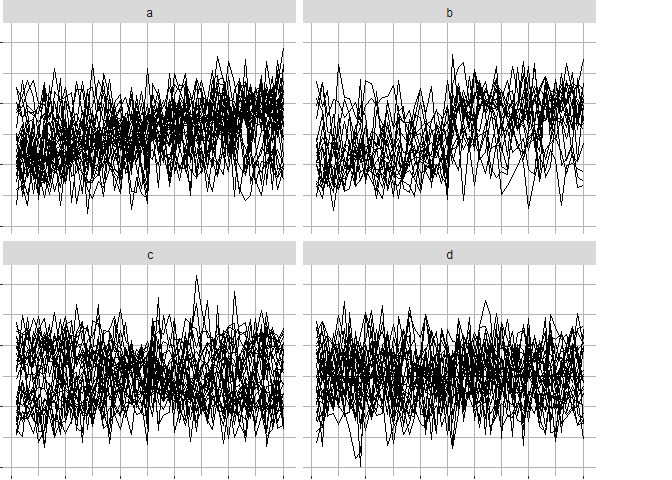
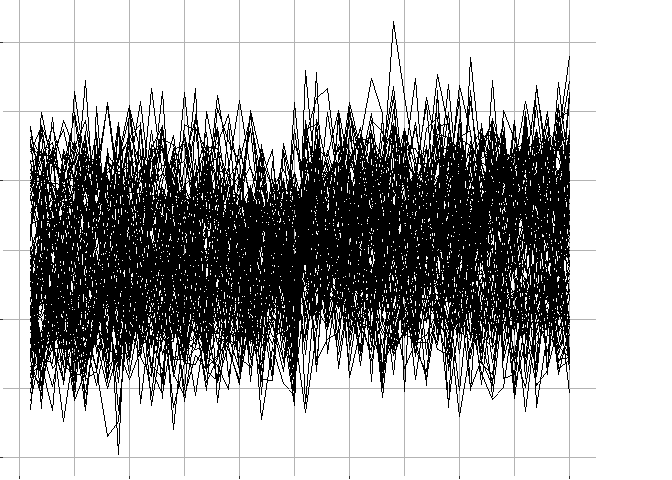
change readme new data

diff --git a/README.md b/README.md
@@ -34,72 +34,92 @@ pushed to CRAN.
 
 Consider the following set of time series
 
-    #> Warning: package 'ggplot2' was built under R version 4.3.1
-    #> Warning: package 'purrr' was built under R version 4.3.1
+``` r
+library(tidyverse)
+library(ppa)
+
+set.seed(140)
+
+#generate 4 different signals
+tsa <- 1:50
+tsb <- c(rep(1, 25), rep(50, 25))
+tsc <- c(seq(50 ,41, length.out=20), seq(40, 11, length.out=10), seq(10,1, length.out=20))
+tsd <- rep(25, 50)
+
+data <- tibble(seconds = rep(1:50, times=100),
+               haty=c(rep(tsa, times=25),
+                      rep(tsb, times=25),
+                      rep(tsc, times=25), rnorm(1250, 25, 15)),
+               series=c(rep(sample(1:100), each=50)),
+               identity=c(rep(c('a', 'b', 'c', 'd'), each=1250)),
+               noise=c(rnorm(5000, sd=15)),
+               y=haty+noise) %>% arrange(series)
+
+corrupt_one_series <- sample(1:100, 1)
+data <- data %>% mutate(y=ifelse(series==corrupt_one_series, haty, y))
+
+data %>% ggplot(aes(seconds, y))+geom_line(aes(group=series)) + facet_wrap(~identity) +
+     xlab(NULL) +
+     ylab(NULL) +
+     theme(axis.text.x = element_blank(), axis.title.y = element_blank(),
+           axis.text.y = element_blank(),
+           axis.title.x = element_blank(),
+           panel.border = element_blank(), panel.background = element_rect(fill="white"),
+           panel.grid = element_line(colour = "grey70"))
+```
 
 <img src="man/figures/README-oracle-1.png" width="30%" />
 
-In the previous figure, the signal is relatively clear. However,
-consider the following figures (these are the same time series from
-above, but in the first figure the labels are correlated with the
-variation across time series but noisy; in the second figure the labels
-are random and thus are not useful):
+In the previous figure, the signal is relatively clear. However, what if
+we did not have access to the grouping labels?
 
-<img src="man/figures/README-noisy-1.png" width="30%" /><img src="man/figures/README-noisy-2.png" width="30%" />
+<img src="man/figures/README-noisy-1.png" width="30%" />
 
-In the last two situations, analysis would be difficult. No additional
-variables are available that could help the analyst pull apart the time
-series in a useful way. These figure alone are insufficient for
-identifying the main signal present in the time series. Plot panel
-analysis can help with this!
+Analysis would be difficult. No additional variables are available that
+could help the analyst easily pull apart the time series in a useful
+way. Plot panel analysis can help with this!
 
 **But before we delve in to how plot panel analysis can help identify
 signal across time series, let’s look at a much simpler problem that can
 be solved incredibly fast with plot panel analysis…** Embedded in each
-of these figures (including the first figure showing perfect signal) are
-two “degenerate” time series that are just straight lines. Can you
-identify them? Would you have known to look for them? If you could
-identify them visually, could you quickly locate them in the dataset and
-remove them from analysis?
+of these figures (including the first figure) is one “degenerate” time
+series that has no added noise. Can you identify it? Would you have
+known to look for it had you not seen the data generating code? If you
+could identify them visually, could you quickly locate them in the
+dataset and remove them from analysis?
 
 This is easy to do with plot panel analysis (and using the ppa app).
 Here are the steps.
 
-1.  Run the following code in your console
+1.  Copy the code that generates the data above and paste and run it in
+    your console. You should now have a variable called “data” in your
+    environment. Run following code in your console
 
 ``` r
-example_data_from_paper %>% ppa(seconds, y, series, 'line')
+data %>% ppa(seconds, y, series, 'line')
 ```
 
-2.  locate the two degenerate time series and click on them. They should
-    turn grey.
+2.  locate the degenerate time series and click on it. It should turn
+    grey.
 3.  Click on the “Exclude/Unexclude Panels” checkbox.
 4.  Click on the “exclude” button. The degenerate time series will
     disappear.
 5.  Exit the app by closing the window.
 6.  A vector called “excluded_panels” will show up in your environment
-    which contains the identity of the two degenerate time series (the
-    `series` variable in the original dataset)
+    which contains the unique panel id of the degenerate time series
+    (this is the `series` variable in the original dataset)
 
 **Simple!**
 
 ## Some features of the PPA app that are useful for plot panel analysis
 
 Let’s take a look at some of the features of the PPA app. It’s easiest
-to read this list while playing around with the app, so here are a few
-examples you can run.
+to read this list while playing around with the app, so here is an
+example you can run.
 
 ``` r
 #example from above
-example_data_from_paper %>% ppa(seconds, y, series, 'line')
-
-#another dataset with more panels
-example_data_no_row_col %>% ppa(x, y, z, 'line')
-
-#another example where the grid row and column variable mapping are specified, ensuring that panels that belong in the same row (and/or column) are kept together appropriately.
-example_data_with_row_col %>% ppa(x, y, z, 'line', rowgroup=rows, colgroup=cols)
-
-#you can also specify only rowgroup or colgroup.
+data %>% ppa(seconds, y, series, 'line')
 ```
 
 1.  Click on the “panel plot properties” button to
@@ -131,17 +151,26 @@ example_data_with_row_col %>% ppa(x, y, z, 'line', rowgroup=rows, colgroup=cols)
     (that have been previously labeled) by choosing a label or set of
     labels.
 7.  The “Select Panels by Score Function” checkbox allows you to
-    - create a function to “measure” each time series based on your
-      visual observations
+    - create a feature function to “measure” each time series based on
+      your visual observations
+    - edit a feature function you already created (this is useful when
+      you realize that you made a typo or that your feature function is
+      not capturing what you thought it would).
     - score each time series based on your function
     - select panels by moving the threshold on the resulting ECDF plot
     - invert the selected panels (i.e. selecting panels that lie “above”
       the threshold rather than “below”)
     - investigate the score of individual time series by hovering over
       them and exposing a tooltip.
+    - save the scores to your R environment (the scores are saved in a
+      data set whose columns are named based on the name of the function
+      that produced the scores)
+    - the functions you created will be saved to your environment as
+      immediately usable functions, along with a list that contains the
+      name of the functions created during that session.
 
-Here is a score you can try (note- don’t forget to name the function so
-that you can access it later!):
+Here is a feature function you can try (note- don’t forget to name the
+function so that you can access it later!):
 
 ``` r
 panel_data %>% summarize(max=max(y)) %>% pull(max)
@@ -149,11 +178,17 @@ panel_data %>% summarize(max=max(y)) %>% pull(max)
 #or (same thing, different syntax)
 
 max(panel_data$y)
+
+#you can copy and paste either of these code snippets into the popup after you click on create new function
 ```
 
 8.  The “Select Panels by Comparison” checkbox allows you to do the same
-    as selecting by score function, but using a user-suppled function
+    as selecting by score function, but with a user-suppled function
     that compares each panel to a selected panel.
+    - When scores are saved using this functionality, since the score
+      depends on the “base comparison panel,” the column name for the
+      scores is in the format
+      “name-of-function_base-comparison-panel-id”
 9.  The “Arrange Panels in Scatter Plot” checkbox allows you to observe
     the relationship between two different measurement functions from
     the “Select by Score Function” module.
@@ -171,16 +206,16 @@ max(panel_data$y)
       and you can apply the desired transformation (or continue your
       investigation) from there.
 
-Here are a transformation you can try (note- don’t forget to name the
+Here is a transformation you can try (note- don’t forget to name the
 function so that you can access it later!):
 
 ``` r
 panel_data %>% mutate(y=y^2)
 ```
 
-Go ahead, try a few! Try to chain them together in different ways and
-navigate through the various transformations to get a feel for using the
-navigation tree.
+Go ahead, try a few transformations! Try to chain them together in
+different ways and navigate through the various transformations to get a
+feel for using the navigation tree.
 
 ## Tip
 
